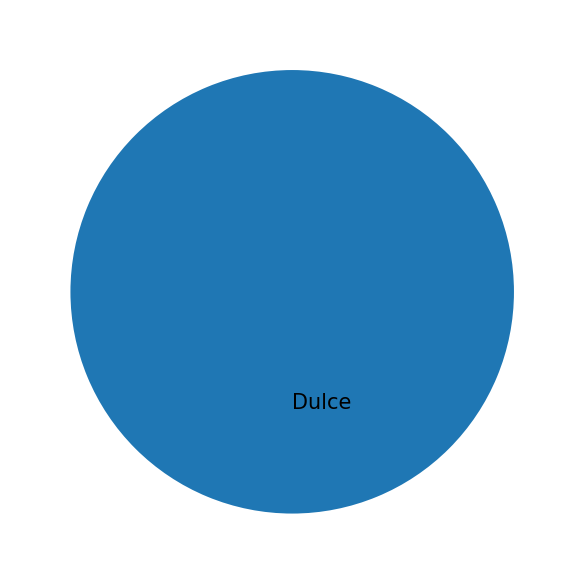
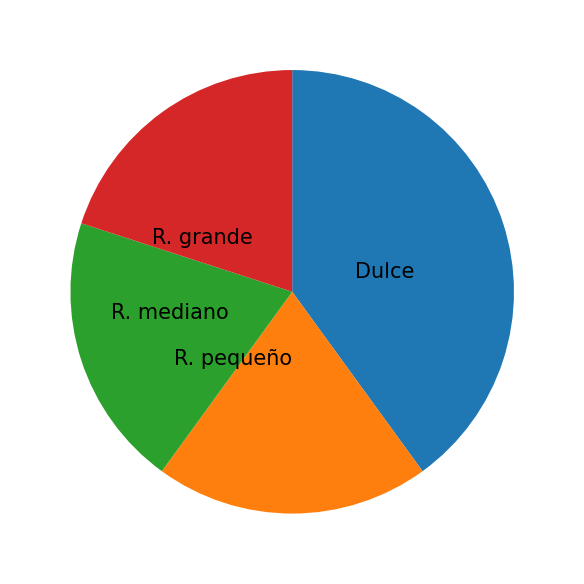
Juego listooo

Changed region(s): [[0.0925, 0.0925, 0.7397, 0.8938], [0.6164, 0.4315, 0.7089, 0.4932]]

diff --git a/servidor/static/js/buttons_setup.js b/servidor/static/js/buttons_setup.js
@@ -12,11 +12,11 @@ function add_button(left, top, id, button_class)
 
 function load_regular_numbers_buttons()
 {
-    horizontal_step = 55;
-    vertical_step = 73;
+    horizontal_step = 32;
+    vertical_step = 43;
 
-    initial_left = 113;
-    initial_top = 45;
+    initial_left = 266;
+    initial_top = 76;
 
     //Create the buttons in numerical order to assign the correct id
     id = 1;
@@ -35,9 +35,9 @@ function load_regular_numbers_buttons()
 
 function load_third_buttons()
 {
-    initial_left = 113;
-    button_top = 267;
-    horizontal_step = 220;
+    initial_left = 266;
+    button_top = 205;
+    horizontal_step = 128;
 
     ids_th = ["1T", "2T", "3T"]
 
@@ -50,9 +50,9 @@ function load_third_buttons()
 
 function load_row_buttons()
 {
-    button_left = 774;
-    initial_top = 45;
-    vertical_step = 73;
+    button_left = 650;
+    initial_top = 76;
+    vertical_step = 43;
 
     ids_row = ["1R", "2R", "3R"]
 
@@ -66,9 +66,9 @@ function load_row_buttons()
 
 function load_half_buttons()
 {
-    initial_left = 113;
-    button_top = 327;
-    horizontal_step = 110;
+    initial_left = 266;
+    button_top = 240;
+    horizontal_step = 64;
 
     ids_hf = ["1H", "E", "R", "B", "O", "2H"]
 
@@ -85,5 +85,5 @@ function buttons_setup()
     load_third_buttons();
     load_row_buttons();
     load_half_buttons();
-    add_button(50, 119, 0, "button-number");
+    add_button(230, 119, 0, "button-number");
 }

diff --git a/servidor/static/css/style.css b/servidor/static/css/style.css
@@ -290,6 +290,7 @@ body {
     z-index: 2; 
     position: relative;
     font-size: 100px;
+    color: #ed3232;
 }
 
 /* --- Roulette indicator image --- */
@@ -345,7 +346,7 @@ body {
 
 .button-third{
     position: absolute;
-	padding: 28px 108px;
+	padding: 16px 62px;
     border: none !important;
     opacity: 0%;
     background-color: rgb(122, 128, 0);
@@ -353,7 +354,7 @@ body {
     
 .button-half{
     position: absolute;
-	padding: 25px 52px;
+	padding: 14px 30px;
     border: none !important;
     opacity: 0%;
     background-color: rgb(122, 128, 0);
@@ -361,7 +362,7 @@ body {
 
 .button-number{
     position: absolute;
-	padding: 34px 25px;
+	padding: 20px 14px;
     border: none !important;
     opacity: 0%;
     background-color: rgb(122, 128, 0);
@@ -369,7 +370,7 @@ body {
 
 .button-row{
     position: absolute;
-	padding: 34px 26px;
+	padding: 20px 14px;
     border: none !important;
     opacity: 0%;
     background-color: rgb(122, 128, 0);

diff --git a/servidor/static/js/democracy_board.js b/servidor/static/js/democracy_board.js
@@ -16,9 +16,8 @@ async function play_game()
 {
     await load_board();
     await create_teams();
-    await new Promise(r => setTimeout(r, 5000)); //Wait 10 seconds
     tell_server_to_start_listening_calls()
-    await new Promise(r => setTimeout(r, 5000)); //Wait 10 seconds
+    await new Promise(r => setTimeout(r, 10000)); //Wait 10 seconds
     await countdown();
     await start_game();
     await new Promise(r => setTimeout(r, 5000)); //Wait 5 seconds
@@ -199,5 +198,5 @@ async function send_colors_per_second()
         contentType: 'application/json;charset=UTF-8'
     });
 
-    document.getElementById("result").innerHTML = response.winner_msj;
+    document.getElementById("result_democracy").innerHTML = response.winner_msj;
 }

diff --git a/servidor/static/js/roulette_spin.js b/servidor/static/js/roulette_spin.js
@@ -37,7 +37,6 @@ async function spin_roulette()
     crutial_degrees = Math.floor(Math.random() * 360);
     roulette.style.setProperty('--rotation_degrees', extra_degrees + crutial_degrees + 'deg');
     chosen_number = roulette_numbers[Math.floor(crutial_degrees / numbers_width)];
-    chosen_number = 11;
     roulette.classList.add("roulette_spin_animation");
 
     tell_server_to_stop_listening_calls();

diff --git a/servidor/templates/democracy_host.html b/servidor/templates/democracy_host.html
@@ -19,8 +19,8 @@
     <div id="team1" class="animate__animated animate__bounceInLeft"></div>
     <div id="board"></div>
     <div id="team2" class="animate__animated animate__bounceInRight"></div>
-    <div id="coutdown"></div>
-    <div id="result_democracy">ME FOLLÉ A TU MADRE DEL REVÉS</div>
+    <div id="countdown"></div>
+    <div id="result_democracy"></div>
 </body>
 </html>
 <script>

diff --git a/servidor/static/js/ranking.js b/servidor/static/js/ranking.js
@@ -170,7 +170,7 @@ function send_prize_winner(winner, prize)
         contentType: 'application/json;charset=UTF-8',
         success: function(response) 
         {
-            //play_next_game();
+            play_next_game();
         }
     });
 }

diff --git a/servidor/main_controller.py b/servidor/main_controller.py
@@ -145,12 +145,13 @@ def create_prizes_roulette():
 
     for prize in prizes:
         if(prize.amount > 0): # If there are prizes of this type
-            labels.append(prize.type)
+            label = prize.type.replace("Regalo", "R.")
+            labels.append(label)
             sizes.append(prize.prob)
 
     sizes = np.array(sizes)
 
-    create_roulette_image(labels, sizes, 90, False, 0.3, 'prizes_roulette')
+    create_roulette_image(labels, sizes, 90, False, 0.5, 'prizes_roulette')
 
 # Creates the roulette image (first delete it if it exists)
 def create_roulette_image(labels, sizes, startangle, counterclock, labeldistance, filename):
@@ -225,9 +226,7 @@ def print_players():
     for player in players:
         print(f"Name: {player.name}")
         print(f"Coins: {player.coins}")
-        for bet in player.elements:
-            print(f"Bet: {bet.type}")
-            print(f"Amount: {bet.amount}")
+        print(f"Elements: {player.elements}")
 
 def print_prizes():
     for prize in prizes:
